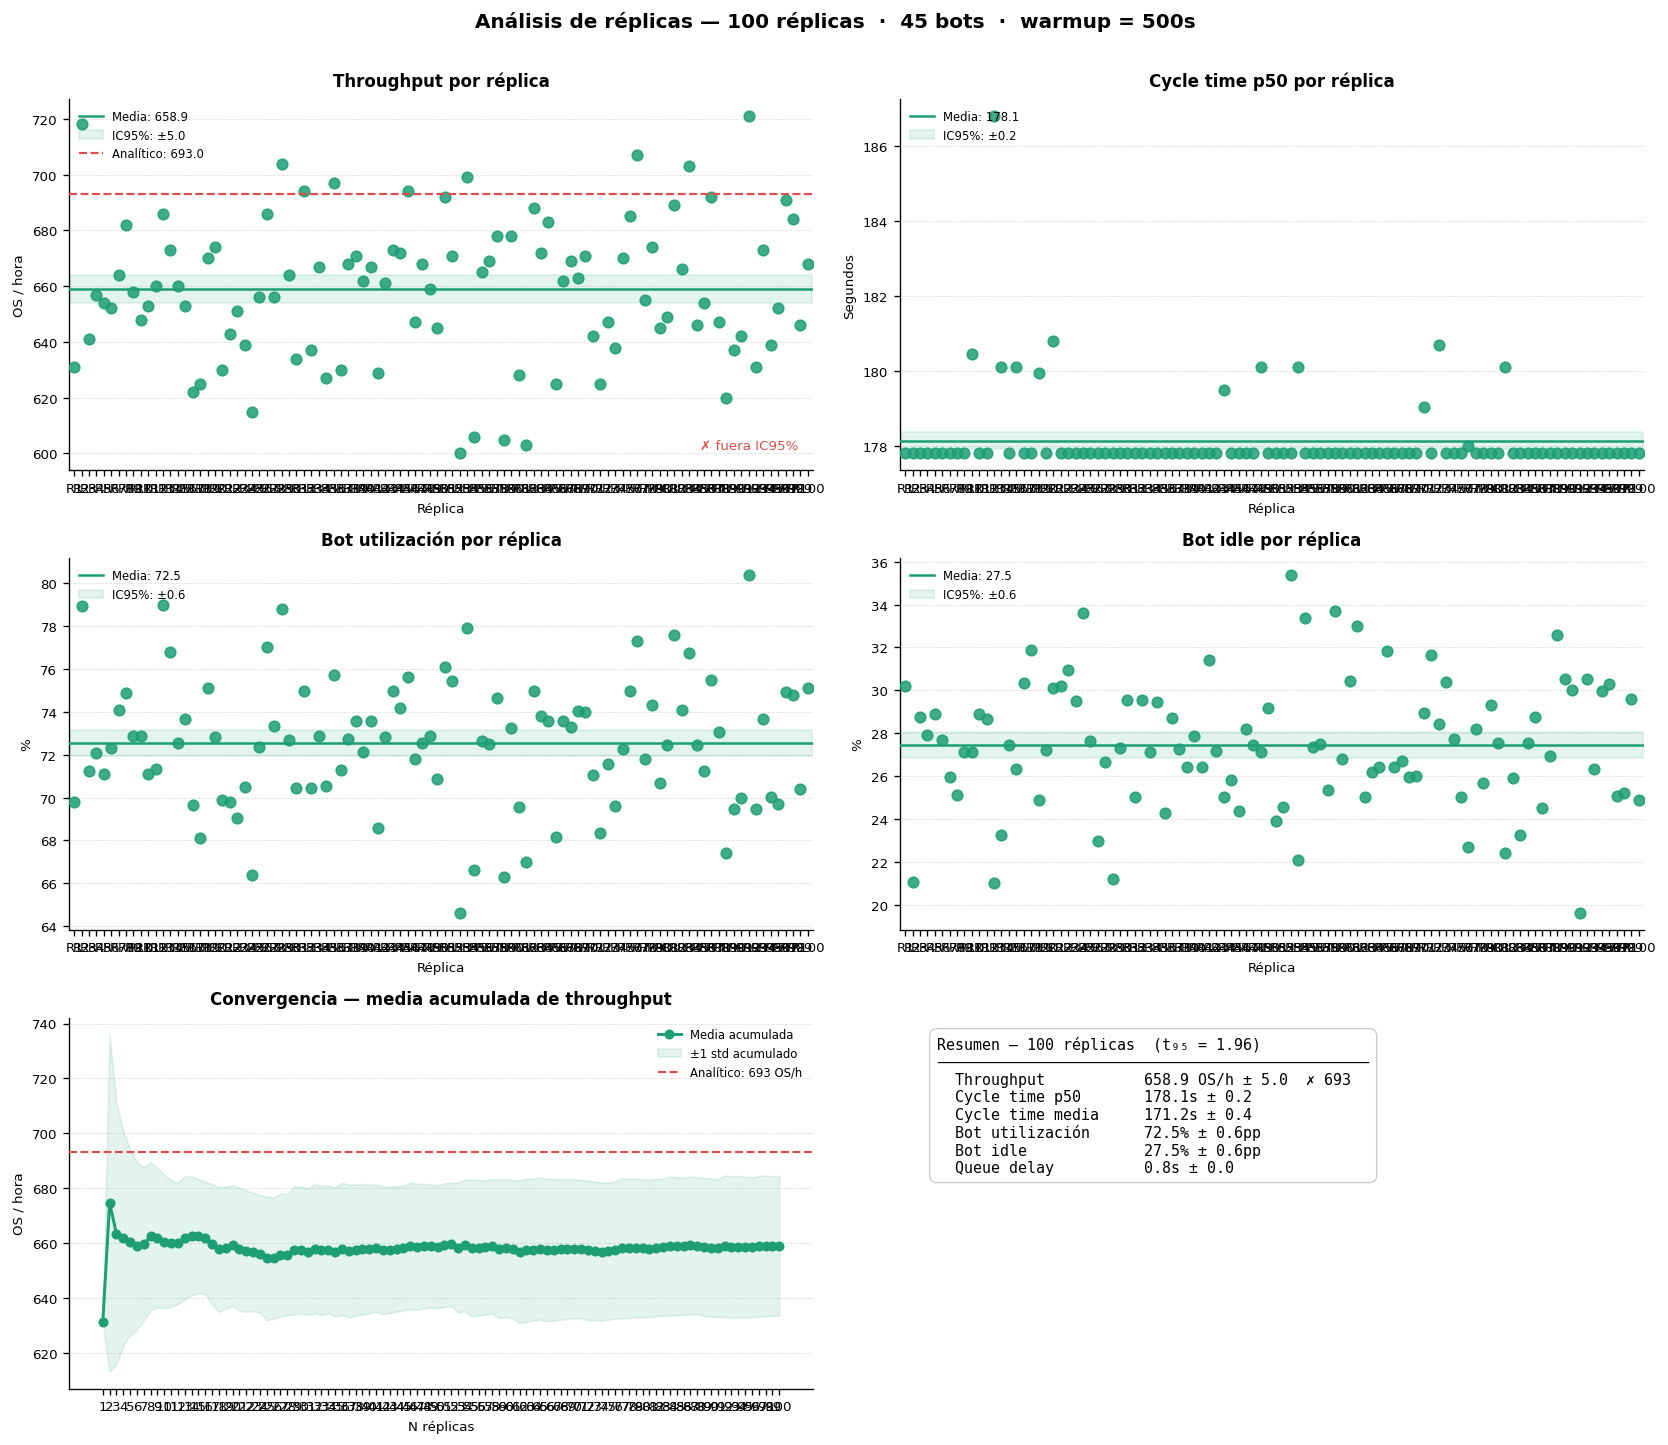
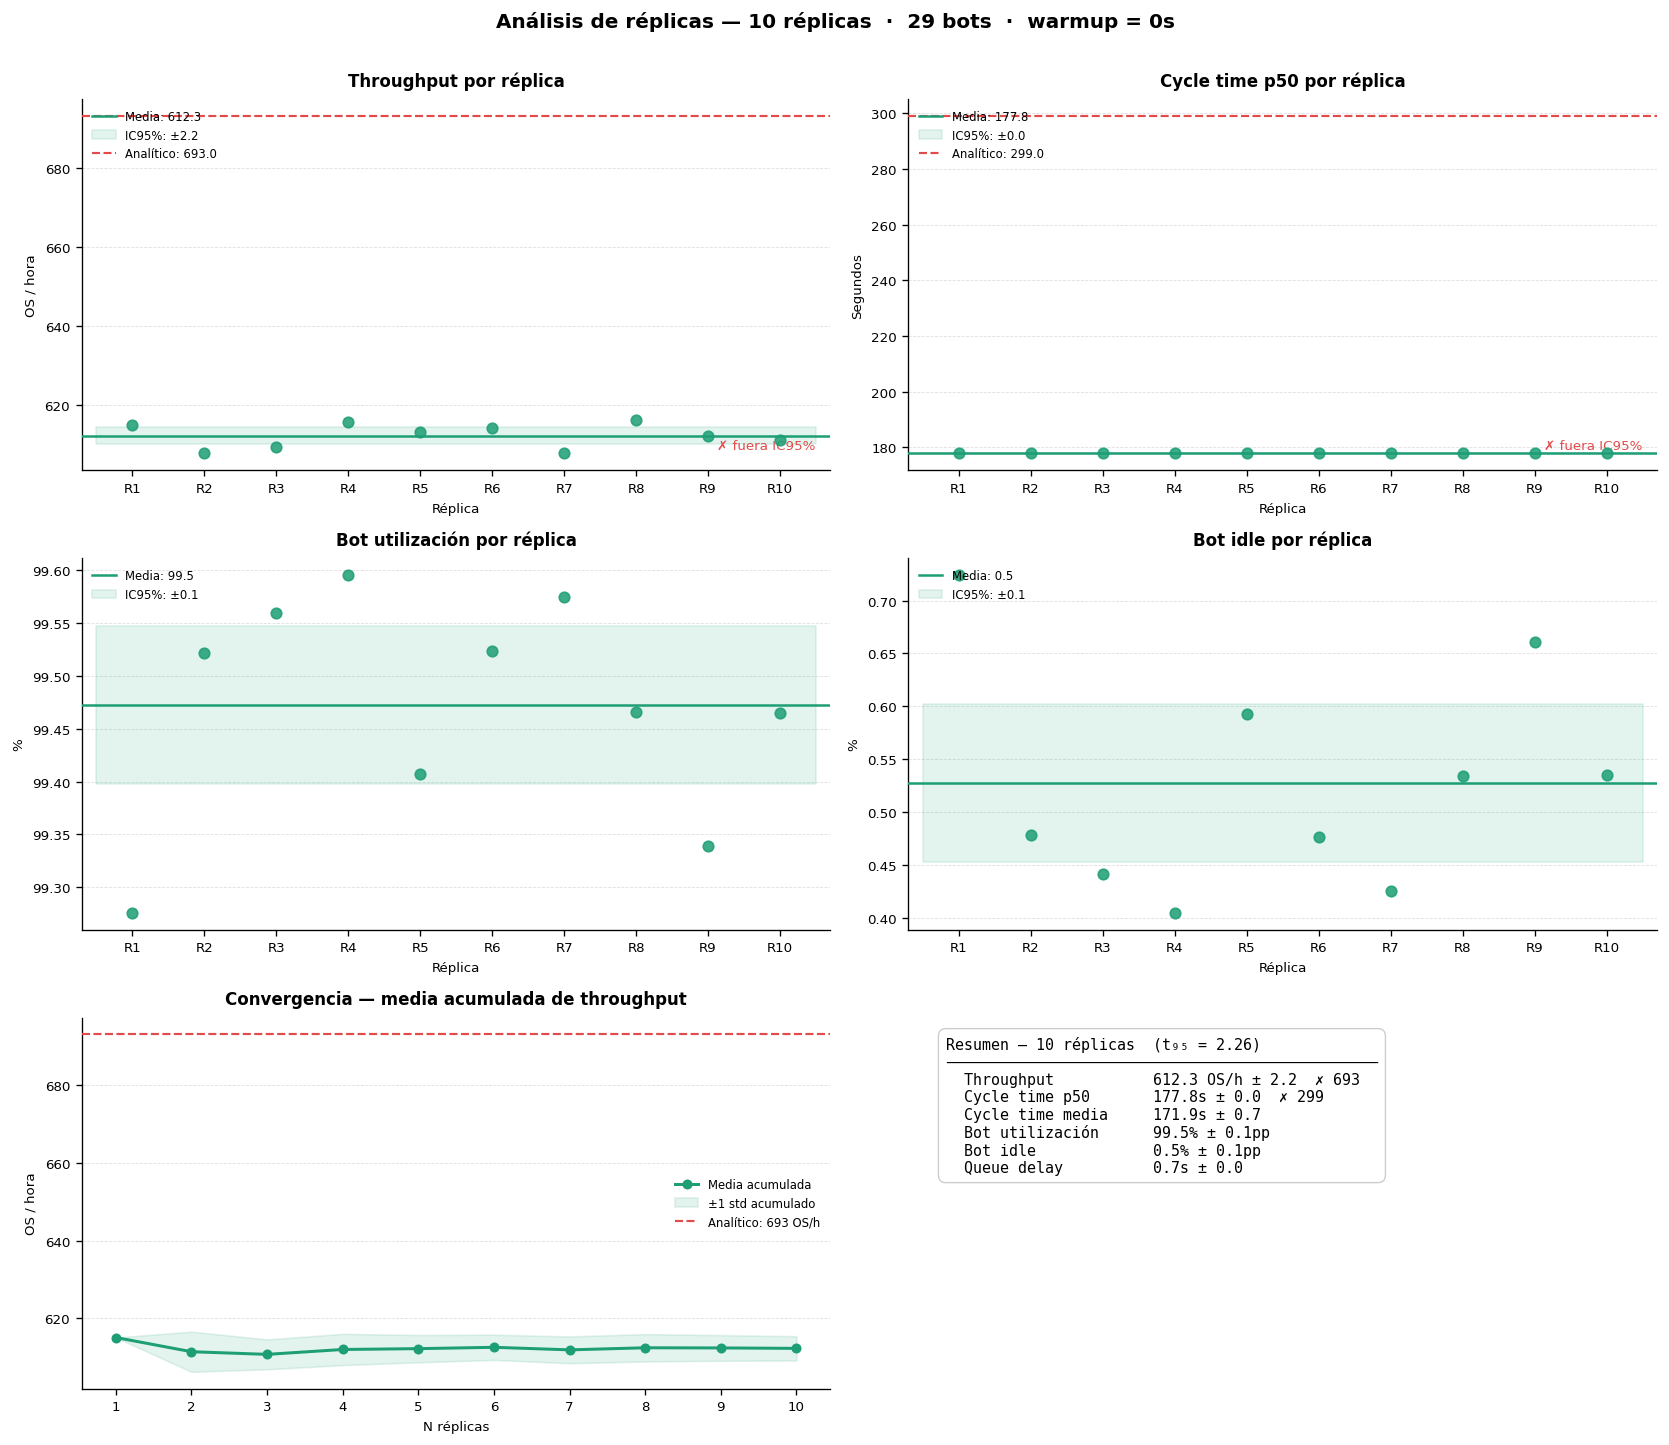
fix: update simulation parameters and reduce default replications for improved performance

diff --git a/src/run.py b/src/run.py
@@ -250,7 +250,7 @@ def summarize_results(
 def run_replications(
     config: SimulationConfig,
     input_model: InputModel,
-    n_replications: int = 10,
+    n_replications: int = 1,
     base_seed: int = 42,
 ) -> list[dict]:
     """
@@ -393,7 +393,7 @@ def main():
 
     analytical_targets = {
         "throughput_os_per_hour": 693.0,
-        # "cycle_time_s":         ...,   # completar desde modelo analítico
+        "cycle_time_s": 299,   # completar desde modelo analítico, calculado como tiempo ponderado del sistema
         # "bot_utilization":      ...,   # completar desde modelo analítico
         # "mean_queue_delay_s":   ...,   # completar desde modelo analítico
     }

diff --git a/src/config.py b/src/config.py
@@ -5,9 +5,9 @@ from models import SimulationConfig
 
 def build_peak_config() -> SimulationConfig:
     return SimulationConfig(
-        simulation_horizon=1.138888889*3600.0,           # 1 hora
-        warmup_time= 500.0,              # 1 hora de warmup para alcanzar estado estacionario
-        n_bots=45,
+        simulation_horizon=3600.0,           # 1 hora
+        warmup_time= 0,              # 1 hora de warmup para alcanzar estado estacionario
+        n_bots=47,
         n_receiving_operators=20,
         empty_rack_initial_inventory=60,
         random_seed=42,
